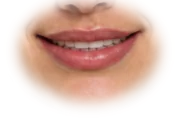
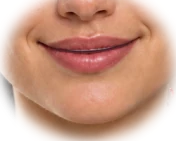
fix(aria): boca natural sin deformar el rostro
Claude-Session: https://claude.ai/code/session_017Kko2YsRd1NQAcYQQa9zCp

diff --git a/src/inicio/motorAria.js b/src/inicio/motorAria.js
@@ -85,7 +85,7 @@ export function crearMotor(root, getSteps, abrirAsistente) {
     if ('eéií'.includes(c)) return ['e', .9];
     if ('oóuú'.includes(c)) return ['o', 1];
     if ('mbp'.includes(c)) return [null, 0];
-    if (' .,:;'.includes(c)) return [null, 0];
+    if (/^[\s\p{P}]$/u.test(c)) return [null, 0];
     return n;
   }
   function speak(av, text, say, el) {
@@ -101,6 +101,7 @@ export function crearMotor(root, getSteps, abrirAsistente) {
         start = performance.now(),
         useB = false,
         last = ['e', .4],
+        lastVisemeAt = -Infinity,
         done = false;
       const cps = 13.5;
       const hasV = window.speechSynthesis && voice;
@@ -118,9 +119,12 @@ export function crearMotor(root, getSteps, abrirAsistente) {
       const loop = t => {
         if (destruido || my !== token || done) return;
         idx = useB ? Math.min(s.length - 1, idx + cps / 60) : Math.min(s.length, (t - start) / 1000 * cps);
-        const v = visemeOf(s[Math.floor(idx)], last);
-        if (v[0]) last = v;
-        tgt().vis(v[0], v[1]);
+        if (t - lastVisemeAt >= 90) {
+          const v = visemeOf(s[Math.floor(idx)], last);
+          if (v[0]) last = v;
+          tgt().vis(v[0], v[1]);
+          lastVisemeAt = t;
+        }
         const nv = Math.ceil(idx / s.length * ws.length);
         ws.forEach((w, i) => w.classList.toggle('dxi-v', i < nv));
         if (!hasV && idx >= s.length) {

diff --git a/src/styles.css b/src/styles.css
@@ -4509,7 +4509,7 @@ body {
 .dxi-av img.dxi-bs{position:absolute;inset:0;width:100%;height:100%;object-fit:contain;filter:drop-shadow(0 18px 30px rgba(0,0,0,.35))}
 .dxi-ly{position:absolute;opacity:0;transition:opacity .07s linear;pointer-events:none}
 .dxi-ly.dxi-eye{left:32.227%;top:23.438%;width:36.132%;height:13.671%}
-.dxi-ly.dxi-mouth{left:38.086%;top:40.039%;width:24.414%;height:17.578%}
+.dxi-ly.dxi-mouth{left:38.086%;top:39.063%;width:24.414%;height:19.531%;transition:opacity 120ms ease}
 .dxi-ly.dxi-on{opacity:1}.dxi-ly.dxi-think{transition:opacity .28s}
 .dxi-fx{position:absolute;left:50%;top:44%;width:74%;aspect-ratio:1;transform:translate(-50%,-50%);pointer-events:none}
 .dxi-fx i{position:absolute;inset:0;border-radius:50%;border:2px solid rgba(127,231,242,.65);opacity:0}
